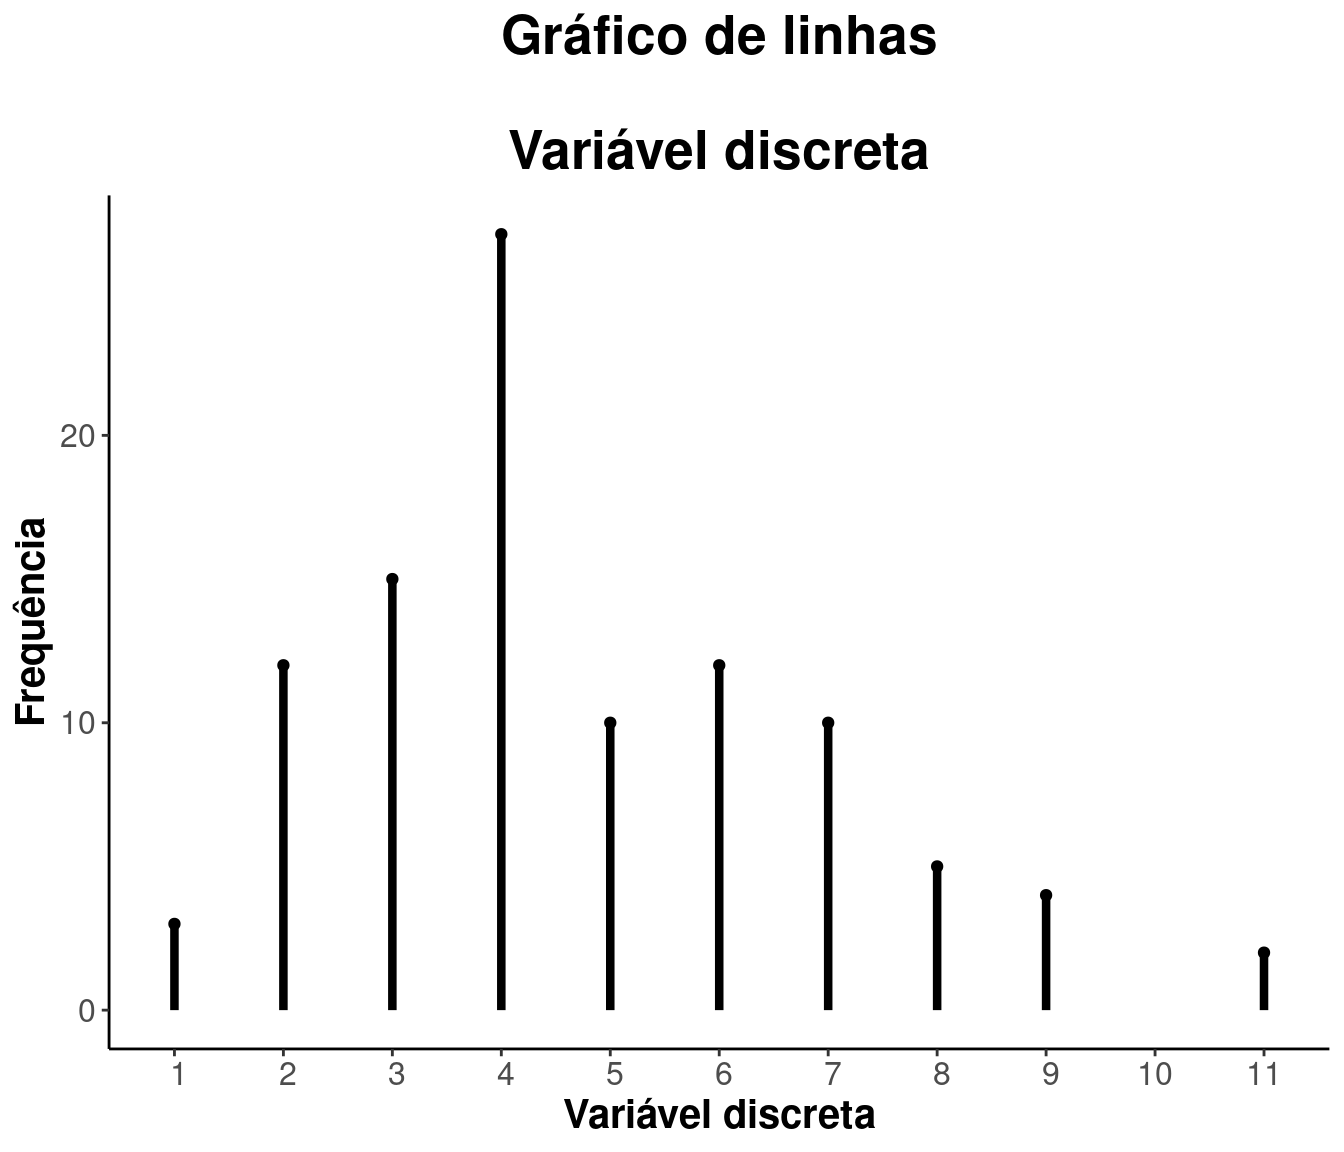
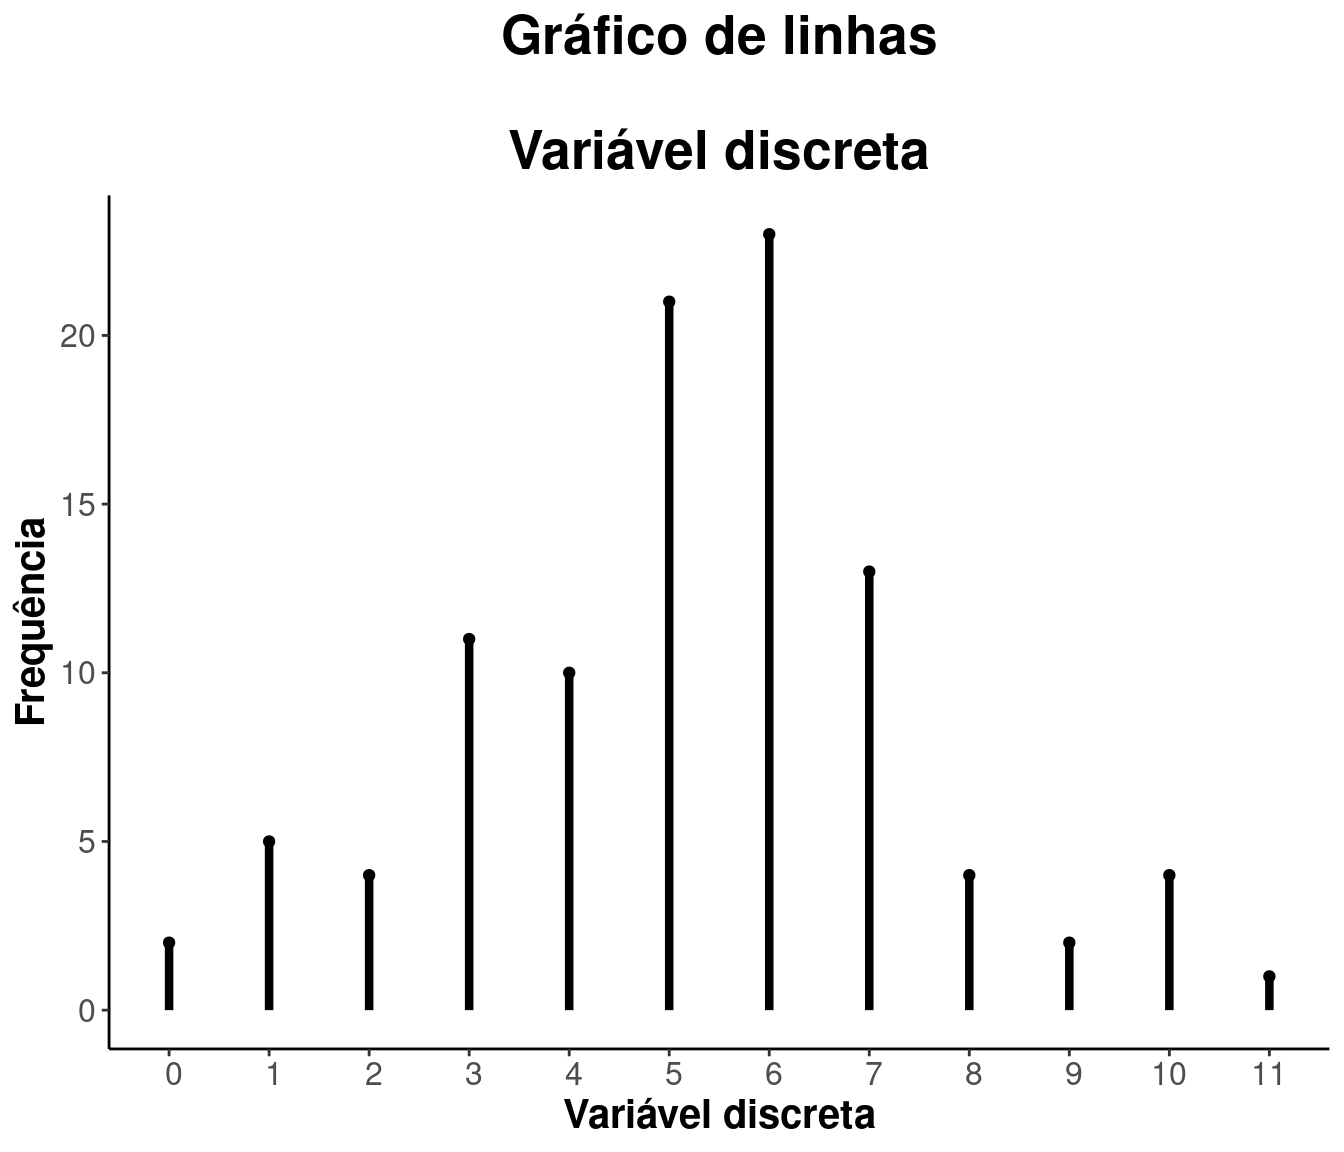
atualiza index e yml

diff --git a/0-exploratoria.html b/0-exploratoria.html
@@ -317,7 +317,7 @@ $(document).ready(function () {
   </a>
   <ul class="dropdown-menu" role="menu">
     <li>
-      <a href="https://github.com/lineu96/mepc23/blob/master/respostas/mepc23%20(respostas)%20-%20Respostas%20ao%20formul%C3%A1rio%201.csv">
+      <a href="https://github.com/lineu96/quest-mepc24/blob/master/respostas/respostas-2024.csv">
         <span class="fa fa-arrow-right"></span>
          
         Dados
@@ -481,18 +481,18 @@ class="section level4">
 <tbody>
 <tr class="odd">
 <td align="center">a</td>
-<td align="center">41</td>
-<td align="center">0.41</td>
+<td align="center">29</td>
+<td align="center">0.29</td>
 </tr>
 <tr class="even">
 <td align="center">b</td>
-<td align="center">31</td>
-<td align="center">0.31</td>
+<td align="center">29</td>
+<td align="center">0.29</td>
 </tr>
 <tr class="odd">
 <td align="center">c</td>
-<td align="center">28</td>
-<td align="center">0.28</td>
+<td align="center">42</td>
+<td align="center">0.42</td>
 </tr>
 </tbody>
 </table>
@@ -518,54 +518,64 @@ class="section level4">
 </thead>
 <tbody>
 <tr class="odd">
-<td align="center">1</td>
-<td align="center">3</td>
-<td align="center">0.03</td>
-</tr>
-<tr class="even">
+<td align="center">0</td>
 <td align="center">2</td>
-<td align="center">12</td>
-<td align="center">0.12</td>
-</tr>
-<tr class="odd">
-<td align="center">3</td>
-<td align="center">15</td>
-<td align="center">0.15</td>
+<td align="center">0.02</td>
 </tr>
 <tr class="even">
-<td align="center">4</td>
-<td align="center">27</td>
-<td align="center">0.27</td>
-</tr>
-<tr class="odd">
-<td align="center">5</td>
-<td align="center">10</td>
-<td align="center">0.1</td>
-</tr>
-<tr class="even">
-<td align="center">6</td>
-<td align="center">12</td>
-<td align="center">0.12</td>
-</tr>
-<tr class="odd">
-<td align="center">7</td>
-<td align="center">10</td>
-<td align="center">0.1</td>
-</tr>
-<tr class="even">
-<td align="center">8</td>
+<td align="center">1</td>
 <td align="center">5</td>
 <td align="center">0.05</td>
 </tr>
 <tr class="odd">
+<td align="center">2</td>
+<td align="center">4</td>
+<td align="center">0.04</td>
+</tr>
+<tr class="even">
+<td align="center">3</td>
+<td align="center">11</td>
+<td align="center">0.11</td>
+</tr>
+<tr class="odd">
+<td align="center">4</td>
+<td align="center">10</td>
+<td align="center">0.1</td>
+</tr>
+<tr class="even">
+<td align="center">5</td>
+<td align="center">21</td>
+<td align="center">0.21</td>
+</tr>
+<tr class="odd">
+<td align="center">6</td>
+<td align="center">23</td>
+<td align="center">0.23</td>
+</tr>
+<tr class="even">
+<td align="center">7</td>
+<td align="center">13</td>
+<td align="center">0.13</td>
+</tr>
+<tr class="odd">
+<td align="center">8</td>
+<td align="center">4</td>
+<td align="center">0.04</td>
+</tr>
+<tr class="even">
 <td align="center">9</td>
+<td align="center">2</td>
+<td align="center">0.02</td>
+</tr>
+<tr class="odd">
+<td align="center">10</td>
 <td align="center">4</td>
 <td align="center">0.04</td>
 </tr>
 <tr class="even">
 <td align="center">11</td>
-<td align="center">2</td>
-<td align="center">0.02</td>
+<td align="center">1</td>
+<td align="center">0.01</td>
 </tr>
 </tbody>
 </table>
@@ -592,18 +602,18 @@ class="section level4">
 <tbody>
 <tr class="odd">
 <td align="center">[15,20]</td>
-<td align="center">1</td>
-<td align="center">0.01</td>
+<td align="center">2</td>
+<td align="center">0.02</td>
 </tr>
 <tr class="even">
 <td align="center">(20,25]</td>
-<td align="center">5</td>
-<td align="center">0.05</td>
+<td align="center">7</td>
+<td align="center">0.07</td>
 </tr>
 <tr class="odd">
 <td align="center">(25,30]</td>
-<td align="center">11</td>
-<td align="center">0.11</td>
+<td align="center">12</td>
+<td align="center">0.12</td>
 </tr>
 <tr class="even">
 <td align="center">(30,35]</td>
@@ -612,23 +622,23 @@ class="section level4">
 </tr>
 <tr class="odd">
 <td align="center">(35,40]</td>
-<td align="center">16</td>
-<td align="center">0.16</td>
+<td align="center">21</td>
+<td align="center">0.21</td>
 </tr>
 <tr class="even">
 <td align="center">(40,45]</td>
-<td align="center">19</td>
-<td align="center">0.19</td>
+<td align="center">13</td>
+<td align="center">0.13</td>
 </tr>
 <tr class="odd">
 <td align="center">(45,50]</td>
-<td align="center">9</td>
-<td align="center">0.09</td>
+<td align="center">17</td>
+<td align="center">0.17</td>
 </tr>
 <tr class="even">
 <td align="center">(50,55]</td>
-<td align="center">16</td>
-<td align="center">0.16</td>
+<td align="center">7</td>
+<td align="center">0.07</td>
 </tr>
 <tr class="odd">
 <td align="center">(55,60]</td>
@@ -637,11 +647,6 @@ class="section level4">
 </tr>
 <tr class="even">
 <td align="center">(60,65]</td>
-<td align="center">2</td>
-<td align="center">0.02</td>
-</tr>
-<tr class="odd">
-<td align="center">(65,70]</td>
 <td align="center">1</td>
 <td align="center">0.01</td>
 </tr>
@@ -674,12 +679,12 @@ class="section level4">
 </thead>
 <tbody>
 <tr class="odd">
-<td align="center">19.24</td>
-<td align="center">33.05</td>
-<td align="center">40.77</td>
-<td align="center">40.15</td>
-<td align="center">47.63</td>
-<td align="center">69.47</td>
+<td align="center">15.27</td>
+<td align="center">31.68</td>
+<td align="center">38.69</td>
+<td align="center">37.77</td>
+<td align="center">45.91</td>
+<td align="center">63.87</td>
 </tr>
 </tbody>
 </table>
@@ -698,9 +703,9 @@ class="section level4">
 </thead>
 <tbody>
 <tr class="odd">
-<td align="center">50.23</td>
-<td align="center">108.1</td>
-<td align="center">10.4</td>
+<td align="center">48.61</td>
+<td align="center">102</td>
+<td align="center">10.1</td>
 </tr>
 </tbody>
 </table>

diff --git a/index.html b/index.html
@@ -317,7 +317,7 @@ $(document).ready(function () {
   </a>
   <ul class="dropdown-menu" role="menu">
     <li>
-      <a href="https://github.com/lineu96/mepc23/blob/master/respostas/mepc23%20(respostas)%20-%20Respostas%20ao%20formul%C3%A1rio%201.csv">
+      <a href="https://github.com/lineu96/quest-mepc24/blob/master/respostas/respostas-2024.csv">
         <span class="fa fa-arrow-right"></span>
          
         Dados
@@ -429,8 +429,6 @@ anteriores.</p>
 <div id="vamos-conhecer-a-turma" class="section level2">
 <h2>Vamos conhecer a turma?</h2>
 <p>A apresentação fica por nossa conta!</p>
-<p>Você pode acompanhar a apresentação do material no YouTube por meio
-do link: (INCLUIR LINK DA AULA).</p>
 <hr />
 <center>
 <table>

diff --git a/0-questionarios.html b/0-questionarios.html
@@ -317,7 +317,7 @@ $(document).ready(function () {
   </a>
   <ul class="dropdown-menu" role="menu">
     <li>
-      <a href="https://github.com/lineu96/mepc23/blob/master/respostas/mepc23%20(respostas)%20-%20Respostas%20ao%20formul%C3%A1rio%201.csv">
+      <a href="https://github.com/lineu96/quest-mepc24/blob/master/respostas/respostas-2024.csv">
         <span class="fa fa-arrow-right"></span>
          
         Dados

diff --git a/1-acad.html b/1-acad.html
@@ -317,7 +317,7 @@ $(document).ready(function () {
   </a>
   <ul class="dropdown-menu" role="menu">
     <li>
-      <a href="https://github.com/lineu96/mepc23/blob/master/respostas/mepc23%20(respostas)%20-%20Respostas%20ao%20formul%C3%A1rio%201.csv">
+      <a href="https://github.com/lineu96/quest-mepc24/blob/master/respostas/respostas-2024.csv">
         <span class="fa fa-arrow-right"></span>
          
         Dados

diff --git a/2-aluno.html b/2-aluno.html
@@ -317,7 +317,7 @@ $(document).ready(function () {
   </a>
   <ul class="dropdown-menu" role="menu">
     <li>
-      <a href="https://github.com/lineu96/mepc23/blob/master/respostas/mepc23%20(respostas)%20-%20Respostas%20ao%20formul%C3%A1rio%201.csv">
+      <a href="https://github.com/lineu96/quest-mepc24/blob/master/respostas/respostas-2024.csv">
         <span class="fa fa-arrow-right"></span>
          
         Dados

diff --git a/3-extra.html b/3-extra.html
@@ -317,7 +317,7 @@ $(document).ready(function () {
   </a>
   <ul class="dropdown-menu" role="menu">
     <li>
-      <a href="https://github.com/lineu96/mepc23/blob/master/respostas/mepc23%20(respostas)%20-%20Respostas%20ao%20formul%C3%A1rio%201.csv">
+      <a href="https://github.com/lineu96/quest-mepc24/blob/master/respostas/respostas-2024.csv">
         <span class="fa fa-arrow-right"></span>
          
         Dados

diff --git a/4-bivar.html b/4-bivar.html
@@ -317,7 +317,7 @@ $(document).ready(function () {
   </a>
   <ul class="dropdown-menu" role="menu">
     <li>
-      <a href="https://github.com/lineu96/mepc23/blob/master/respostas/mepc23%20(respostas)%20-%20Respostas%20ao%20formul%C3%A1rio%201.csv">
+      <a href="https://github.com/lineu96/quest-mepc24/blob/master/respostas/respostas-2024.csv">
         <span class="fa fa-arrow-right"></span>
          
         Dados

diff --git a/exemplo.html b/exemplo.html
@@ -329,7 +329,7 @@ $(document).ready(function () {
   </a>
   <ul class="dropdown-menu" role="menu">
     <li>
-      <a href="https://github.com/lineu96/mepc23/blob/master/respostas/mepc23%20(respostas)%20-%20Respostas%20ao%20formul%C3%A1rio%201.csv">
+      <a href="https://github.com/lineu96/quest-mepc24/blob/master/respostas/respostas-2024.csv">
         <span class="fa fa-arrow-right"></span>
          
         Dados
